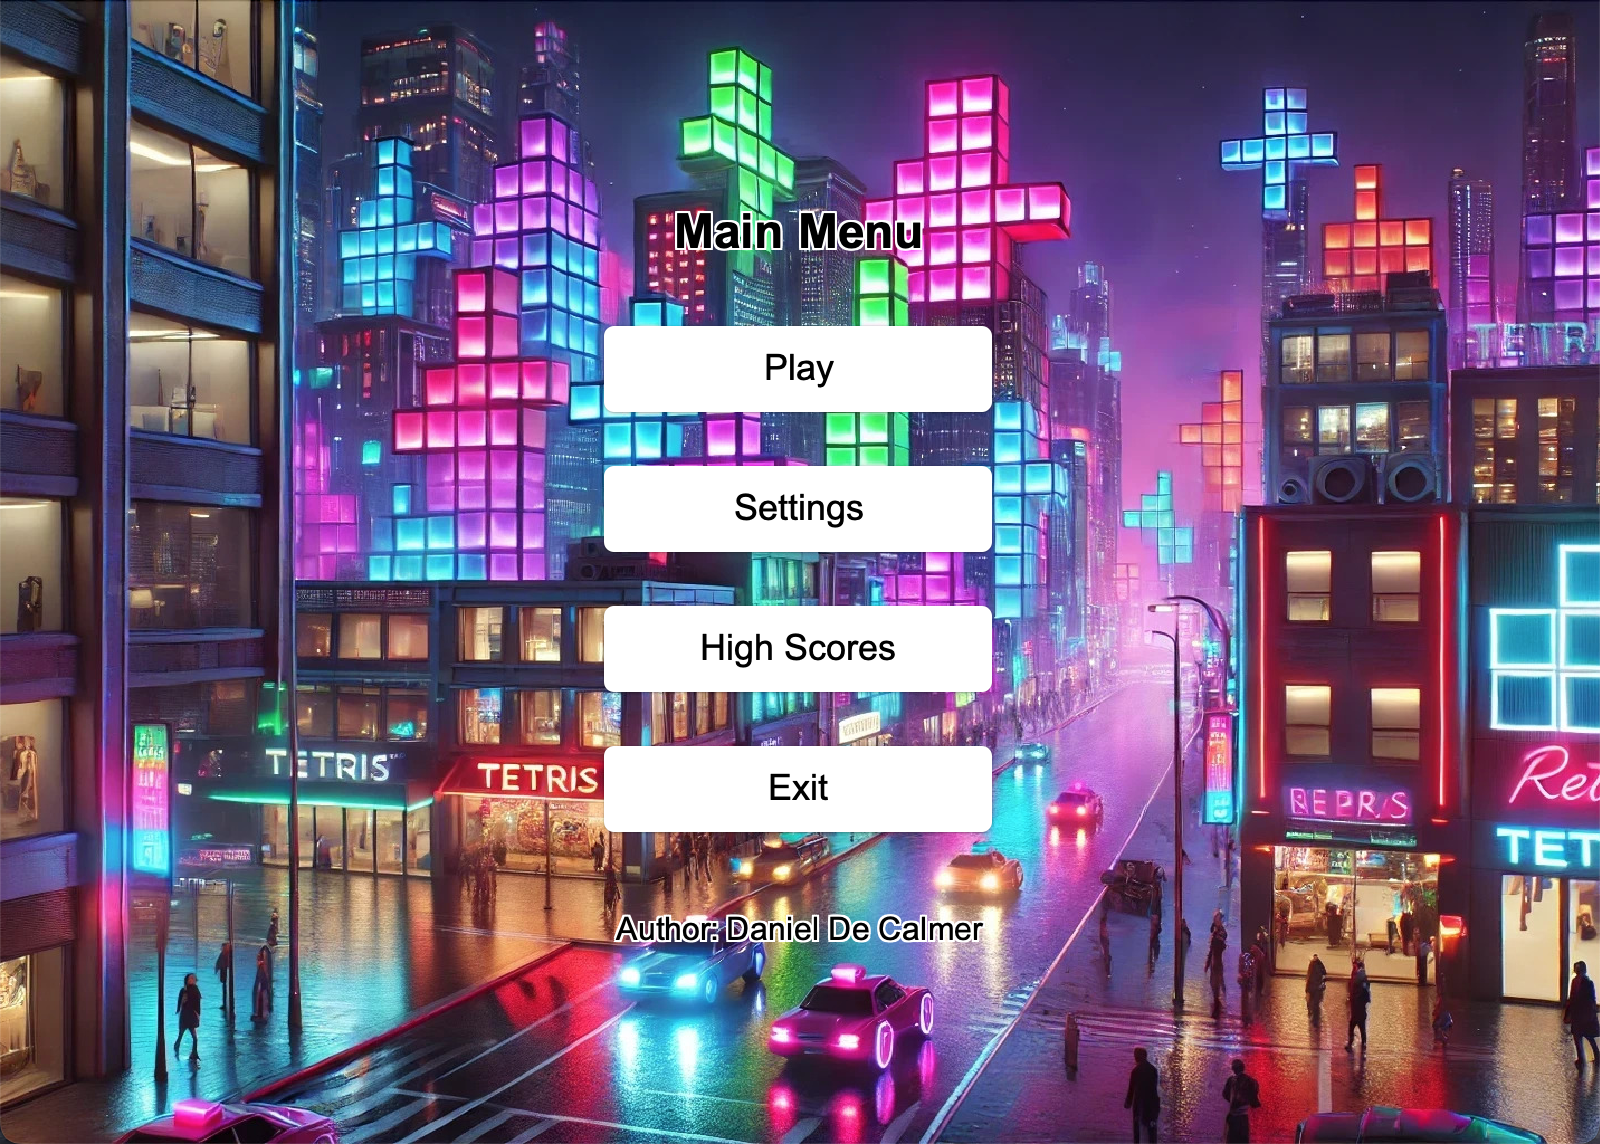
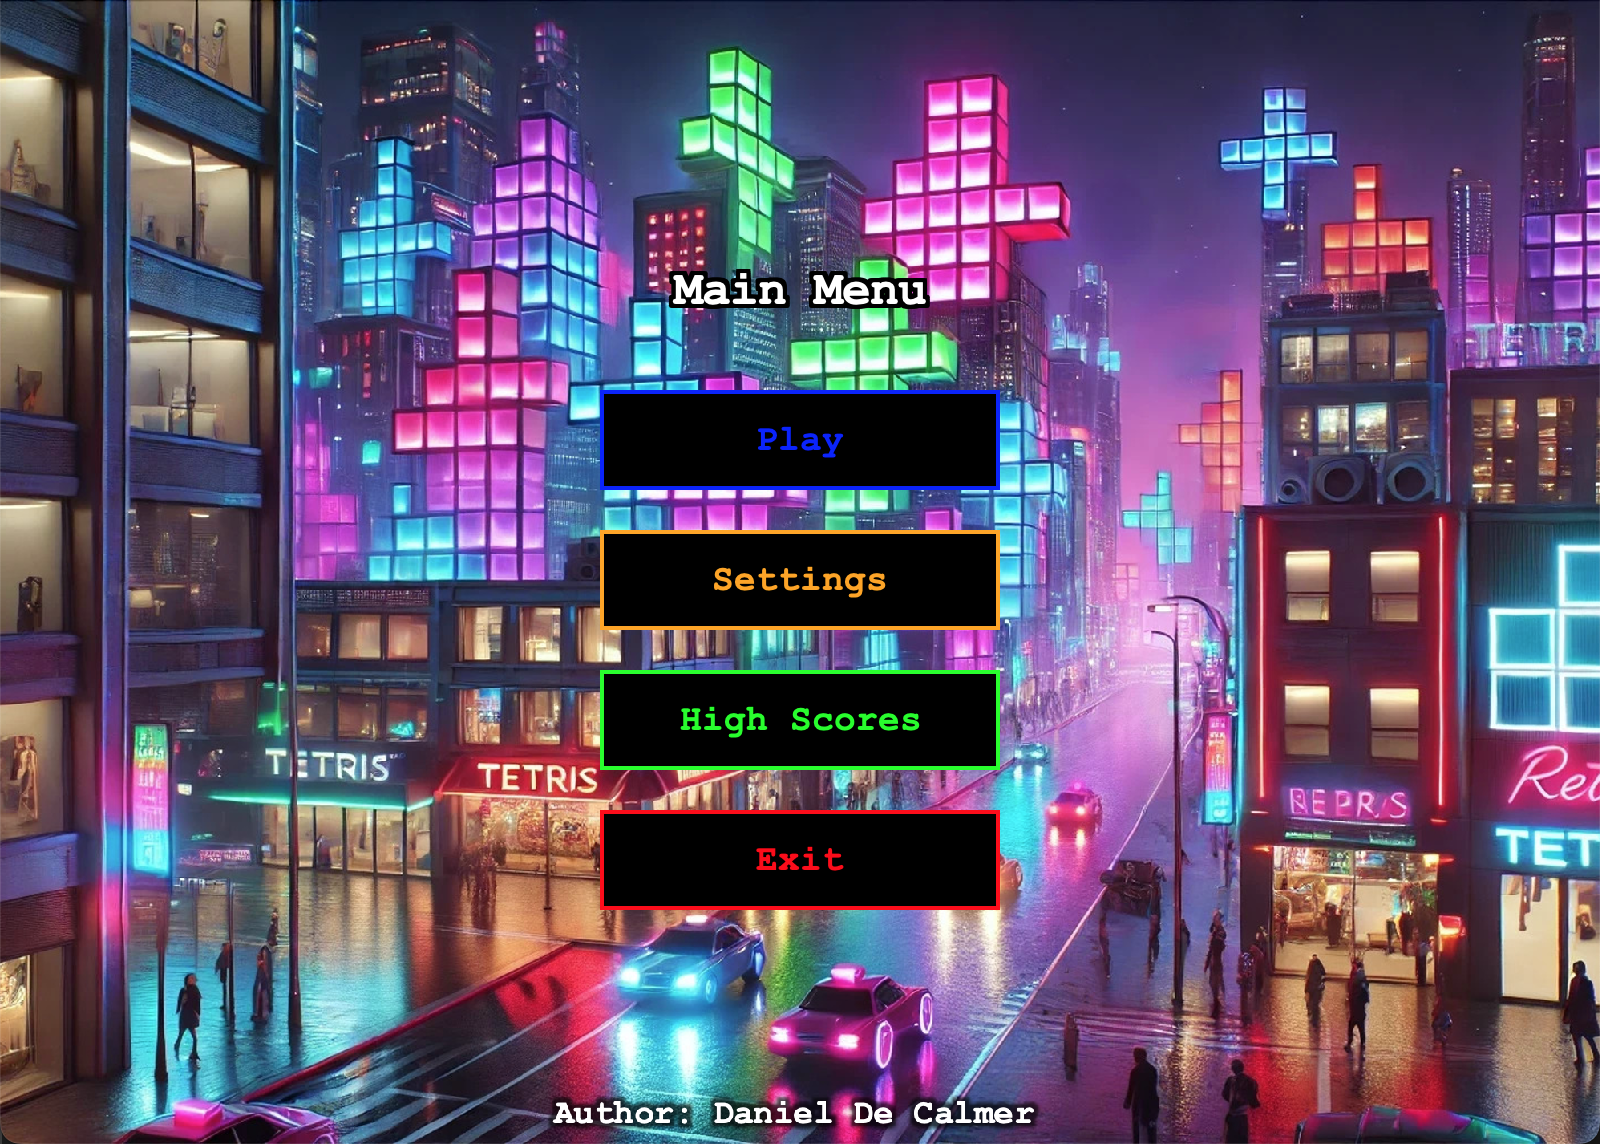
Adjusted Main Menu UI

diff --git a/ETJava/src/view/MainMenu.java b/ETJava/src/view/MainMenu.java
@@ -18,7 +18,6 @@ public class MainMenu extends AbstractScreen implements ActionListener {
         // Use the singleton AudioManager to play or resume the menu music
         AudioManager.getInstance().playMusic(musicFilePath);
 
-        // Load your background image with a 16:9 aspect ratio
         BackgroundPanel backgroundPanel = new BackgroundPanel("/resources/MainMenuBackground.jpg");
         backgroundPanel.setLayout(new GridBagLayout()); // Use GridBagLayout to center the buttons
 
@@ -31,50 +30,61 @@ public class MainMenu extends AbstractScreen implements ActionListener {
         gbc.anchor = GridBagConstraints.CENTER; // Center the components
 
         // Title with white outline
-        OutlinedLabel titleLabel = new OutlinedLabel("Main Menu", JLabel.CENTER, Color.WHITE);
-        titleLabel.setFont(new Font("Arial", Font.BOLD, 24));
-
-        gbc.insets = new Insets(20, 10, 20, 10); // Larger padding for the title
+        OutlinedLabel titleLabel = new OutlinedLabel("Main Menu", JLabel.CENTER, Color.BLACK);
+        titleLabel.setForeground(Color.WHITE);
+        titleLabel.setFont(new Font("Courier New", Font.BOLD, 24));
+        titleLabel.setBorder(BorderFactory.createEmptyBorder(5, 20, 5, 20));
+        gbc.insets = new Insets(20, 15, 20, 15); // Larger padding for the title
         backgroundPanel.add(titleLabel, gbc);
 
-        // Play Button
+        // Play Button with dark blue neon
         playButton = new JButton("Play");
-        playButton.setFont(new Font("Arial", Font.PLAIN, 18));
+        playButton.setFont(new Font("Courier New", Font.BOLD, 18));
         playButton.setPreferredSize(new Dimension(200, 50)); // Set a fixed size for the buttons
+        playButton.setOpaque(true); // Make the button opaque
+        playButton.setContentAreaFilled(true); // Ensure the content area is filled
+        playButton.setBackground(Color.BLACK); // Set background to black
+        playButton.setForeground(new Color(0, 0, 255)); // Dark blue neon text
+        playButton.setBorder(BorderFactory.createLineBorder(new Color(0, 0, 255), 2)); // Dark blue neon border
         playButton.addActionListener(this);
         gbc.insets = new Insets(10, 10, 10, 10); // Regular padding for buttons
         backgroundPanel.add(playButton, gbc);
 
-        // Settings Button
+        // Settings Button with orange neon
         configButton = new JButton("Settings");
-        configButton.setFont(new Font("Arial", Font.PLAIN, 18));
+        configButton.setFont(new Font("Courier New", Font.BOLD, 18));
         configButton.setPreferredSize(new Dimension(200, 50));
+        configButton.setOpaque(true); // Make the button opaque
+        configButton.setContentAreaFilled(true); // Ensure the content area is filled
+        configButton.setBackground(Color.BLACK); // Set background to black
+        configButton.setForeground(new Color(255, 165, 0)); // Orange neon text
+        configButton.setBorder(BorderFactory.createLineBorder(new Color(255, 165, 0), 2)); // Orange neon border
         configButton.addActionListener(this);
         backgroundPanel.add(configButton, gbc);
 
-        // High Scores Button
+        // High Scores Button with green neon
         highScoresButton = new JButton("High Scores");
-        highScoresButton.setFont(new Font("Arial", Font.PLAIN, 18));
+        highScoresButton.setFont(new Font("Courier New", Font.BOLD, 18));
         highScoresButton.setPreferredSize(new Dimension(200, 50));
+        highScoresButton.setOpaque(true); // Make the button opaque
+        highScoresButton.setContentAreaFilled(true); // Ensure the content area is filled
+        highScoresButton.setBackground(Color.BLACK); // Set background to black
+        highScoresButton.setForeground(new Color(0, 255, 0)); // Green neon text
+        highScoresButton.setBorder(BorderFactory.createLineBorder(new Color(0, 255, 0), 2)); // Green neon border
         highScoresButton.addActionListener(this);
         backgroundPanel.add(highScoresButton, gbc);
 
-        // Exit Button
+        // Exit Button with red neon
         exitButton = new JButton("Exit");
-        exitButton.setFont(new Font("Arial", Font.PLAIN, 18));
+        exitButton.setFont(new Font("Courier New", Font.BOLD, 18));
         exitButton.setPreferredSize(new Dimension(200, 50));
+        exitButton.setOpaque(true); // Make the button opaque
+        exitButton.setContentAreaFilled(true); // Ensure the content area is filled
+        exitButton.setBackground(Color.BLACK); // Set background to black
+        exitButton.setForeground(new Color(255, 0, 0)); // Red neon text
+        exitButton.setBorder(BorderFactory.createLineBorder(new Color(255, 0, 0), 2)); // Red neon border
         exitButton.addActionListener(this);
         backgroundPanel.add(exitButton, gbc);
-
-        // Author label with white outline
-        OutlinedLabel authorLabel = new OutlinedLabel("Author: Daniel De Calmer", JLabel.CENTER, Color.WHITE);
-        authorLabel.setFont(new Font("Arial", Font.PLAIN, 16));
-
-        // Add empty border to ensure the text is not cut off
-        authorLabel.setBorder(BorderFactory.createEmptyBorder(5, 12, 5, 12)); // 5px top/bottom padding, 10px left/right padding
-
-        gbc.insets = new Insets(20, 10, 10, 10); // Larger padding for the label
-        backgroundPanel.add(authorLabel, gbc);
 
         // Add the background panel to the main panel
         mainPanel.setLayout(new BorderLayout());

diff --git a/ETJava/src/view/OutlinedLabel.java b/ETJava/src/view/OutlinedLabel.java
@@ -17,11 +17,14 @@ public class OutlinedLabel extends JLabel {
         Graphics2D g2 = (Graphics2D) g.create();
         g2.setRenderingHint(RenderingHints.KEY_ANTIALIASING, RenderingHints.VALUE_ANTIALIAS_ON);
 
-        // Draw outline (slightly offset around the text)
+        // Draw thicker outline (increase the loop range for thicker effect)
         g2.setColor(outlineColor);
-        for (int i = -1; i <= 1; i++) {
-            for (int j = -1; j <= 1; j++) {
-                g2.drawString(getText(), getInsets().left + i, getInsets().top + j + g2.getFontMetrics().getAscent());
+        int outlineThickness = 2; // Set the thickness of the outline (increase for thicker)
+        for (int i = -outlineThickness; i <= outlineThickness; i++) {
+            for (int j = -outlineThickness; j <= outlineThickness; j++) {
+                if (i != 0 || j != 0) { // Avoid drawing at the center (where the text will be)
+                    g2.drawString(getText(), getInsets().left + i, getInsets().top + j + g2.getFontMetrics().getAscent());
+                }
             }
         }
 

diff --git a/ETJava/src/Main.java b/ETJava/src/Main.java
@@ -1,7 +1,5 @@
 import controller.GameController;
 
-import javax.swing.*;
-import java.awt.event.ActionEvent;
 import view.SplashScreen;
 import javax.swing.SwingUtilities;
 
